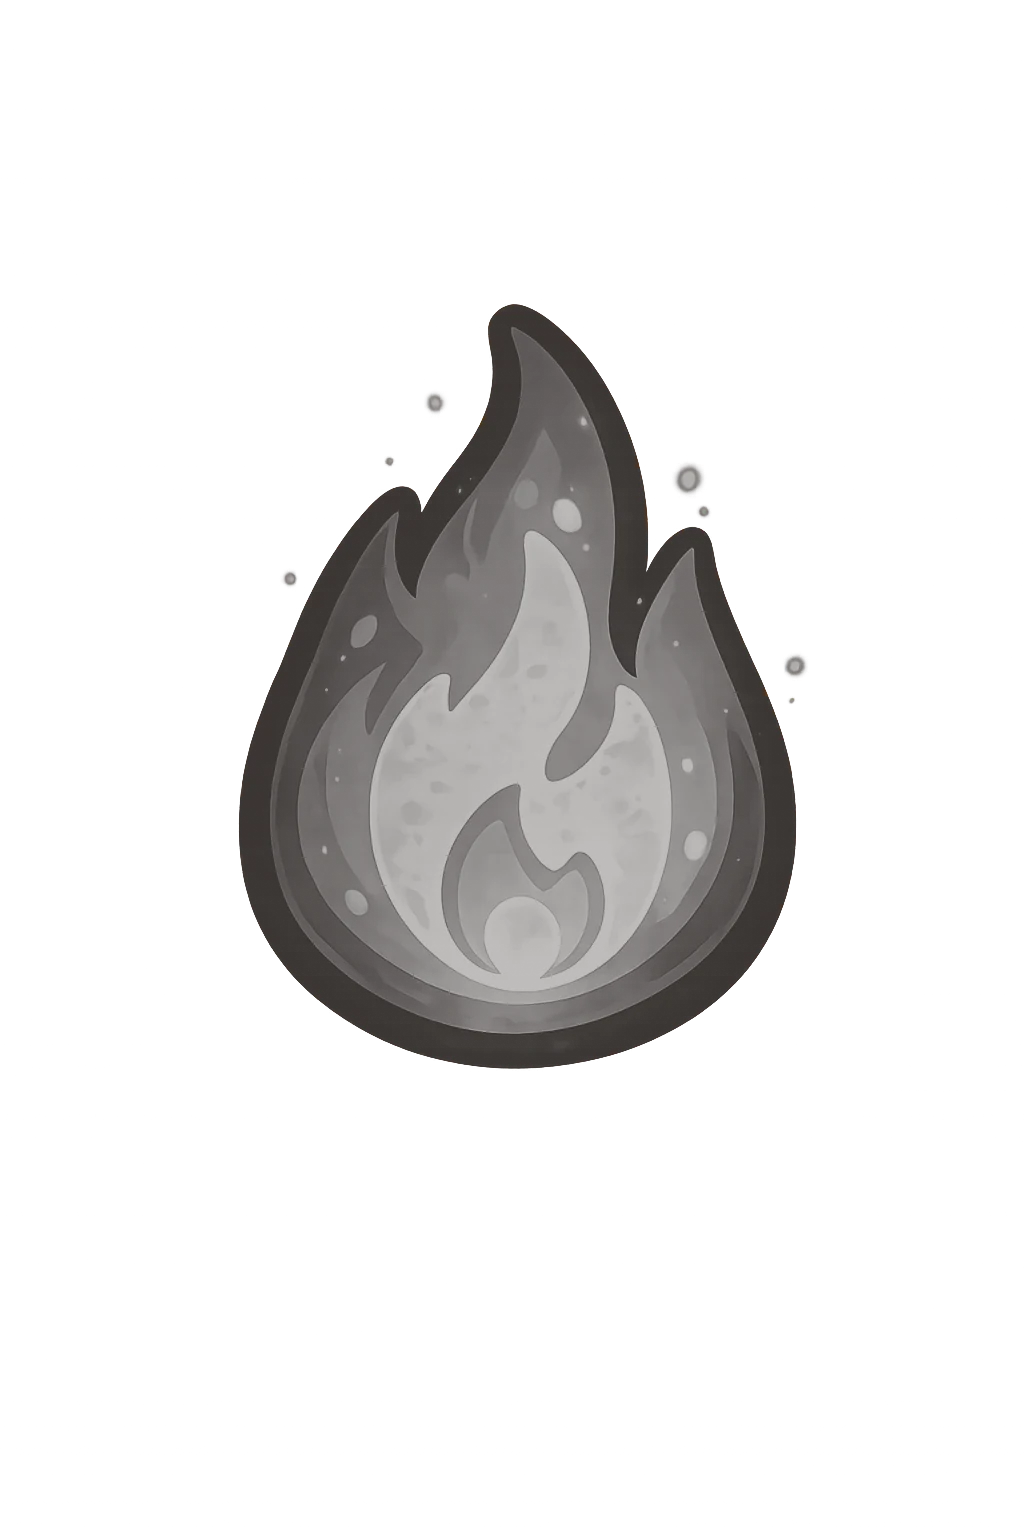
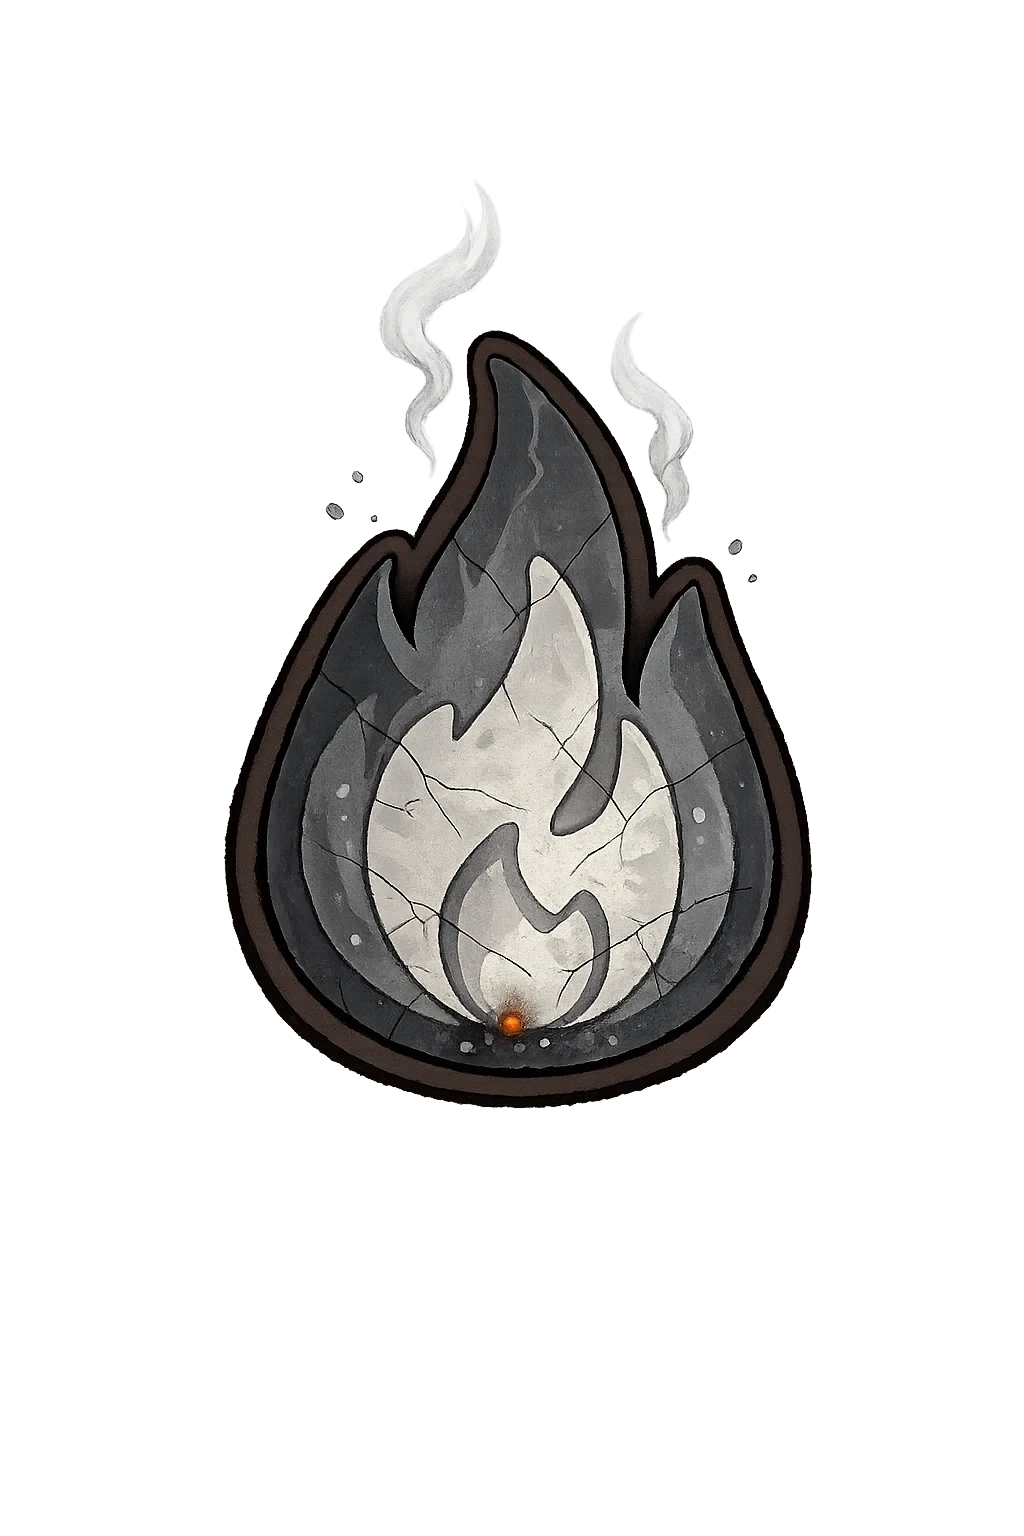
feat: real broken-streak artwork replaces the derived placeholder
Hand-drawn cold flame — cracked ash body, two smoke wisps, one dying ember —
swapped in for the placeholder I'd derived by desaturating day-30.

The PNG already carried a clean alpha channel. The grey vignette visible in a
preview is baked into the RGB *underneath* the transparent pixels, so it composites
away on its own; the background-removal pass I started was solving a problem that
didn't exist, and flood-filling on RGB luminance was destroying the flame.

BROKEN_FLAME's box spans the whole opaque artwork (588x922) rather than hugging the
flame body (588x675) the way the tier flames do. The smoke rises to y=186, far above
the body at y=433, and measuring the body alone pushed the wisps outside the square
clip box and sheared them off. The flame body therefore renders ~27% smaller than a
tier flame at the same nominal size, which suits a dead one — and it's never on
screen beside a lit flame to be compared against.

Source PNG kept in the gitignored assets/_originals/streak-fires.

Changed region(s): [[0.2188, 0.125, 0.8125, 0.7188]]

diff --git a/lib/streakCelebration.ts b/lib/streakCelebration.ts
@@ -51,17 +51,24 @@ export const FLAME_TIERS: FlameTier[] = [
 /**
  * The dead flame for the broken-streak overlay.
  *
- * Derived from day 30's artwork (luminance remapped onto a cold slate ramp), so it
- * carries the SAME silhouette and the same measured body box — flameLayout() works
- * on it unchanged. `ray`/`spark` are ash rather than fire; nothing on that screen
- * should glow.
+ * The box spans the WHOLE opaque artwork (588×922), smoke included — unlike the
+ * tier flames, whose boxes hug the flame body and let the glow spill outside the
+ * clip. Here the two smoke wisps rise to y=186, far above the body at y=433, and
+ * measuring the body alone (588×675) would have pushed them outside the square clip
+ * box and sheared them off.
+ *
+ * The trade is that the flame body lands ~27% smaller than a tier flame at the same
+ * nominal size. That reads correctly: this one is diminished, and it is never on
+ * screen next to a lit flame to be compared against.
+ *
+ * `ray`/`spark` are ash rather than fire — nothing on that screen should glow.
  */
 export const BROKEN_FLAME: FlameTier = {
   day: 0,
   source: require('@/assets/streak-fires/streak-broken.webp'),
   ray: '#8E8880',
   spark: '#B9B2AA',
-  art: { w: 1024, h: 1536, x: 239, y: 304, bw: 565, bh: 765 },
+  art: { w: 1024, h: 1536, x: 224, y: 186, bw: 588, bh: 922 },
 };
 
 const BY_DAY = new Map(FLAME_TIERS.map((f) => [f.day, f]));
